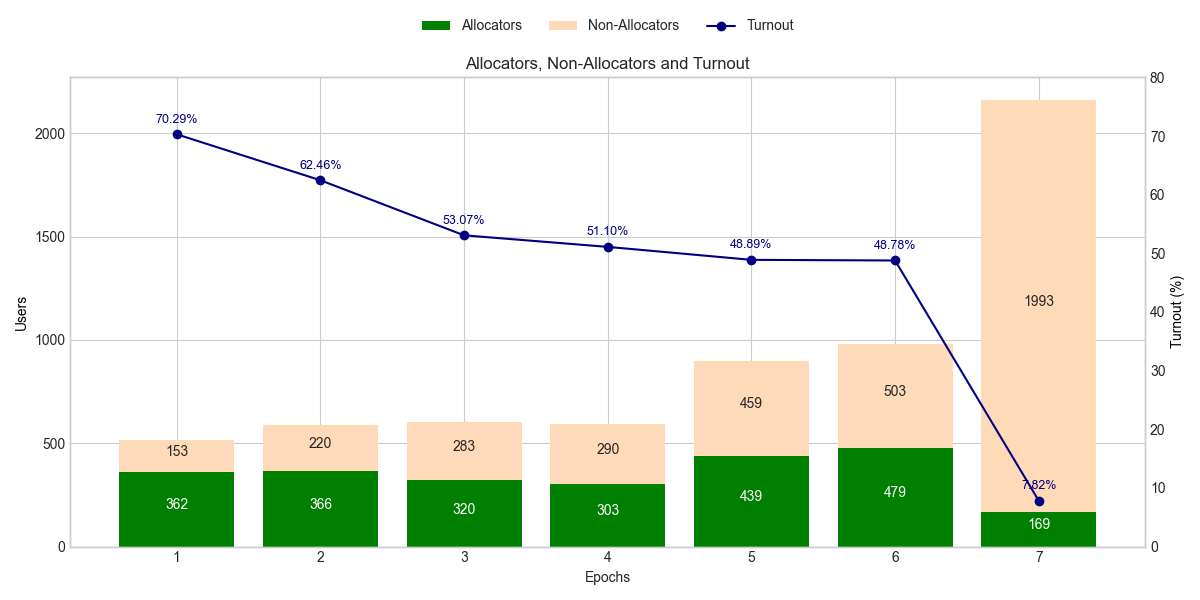
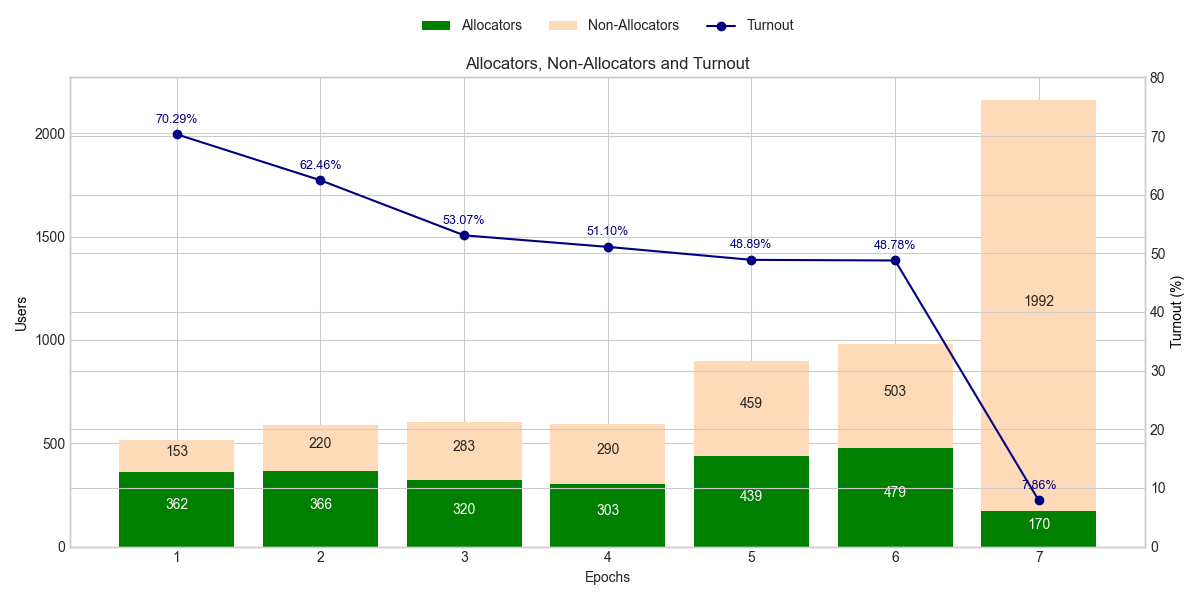
update

Changed region(s): [[0.8633, 0.81, 0.8942, 0.87]]

diff --git a/_site/e7.html b/_site/e7.html
@@ -222,9 +222,9 @@
     <tr>
       <td style="width: 1%; text-align: center; padding: 8px; word-wrap: break-word; white-space: normal;">7</td>
       <td style="width: 1%; text-align: center; padding: 8px; word-wrap: break-word; white-space: normal;">2162</td>
-      <td style="width: 1%; text-align: center; padding: 8px; word-wrap: break-word; white-space: normal;">169</td>
-      <td style="width: 1%; text-align: center; padding: 8px; word-wrap: break-word; white-space: normal;">142</td>
-      <td style="width: 1%; text-align: center; padding: 8px; word-wrap: break-word; white-space: normal;">7.8</td>
+      <td style="width: 1%; text-align: center; padding: 8px; word-wrap: break-word; white-space: normal;">170</td>
+      <td style="width: 1%; text-align: center; padding: 8px; word-wrap: break-word; white-space: normal;">143</td>
+      <td style="width: 1%; text-align: center; padding: 8px; word-wrap: break-word; white-space: normal;">7.9</td>
     </tr>
   </tbody>
 </table>
@@ -293,7 +293,7 @@
       <td style="width: 1%; text-align: center; padding: 8px; word-wrap: break-word; white-space: normal;">34</td>
       <td style="width: 1%; text-align: center; padding: 8px; word-wrap: break-word; white-space: normal;">6</td>
       <td style="width: 1%; text-align: center; padding: 8px; word-wrap: break-word; white-space: normal;">18</td>
-      <td style="width: 1%; text-align: center; padding: 8px; word-wrap: break-word; white-space: normal;">42</td>
+      <td style="width: 1%; text-align: center; padding: 8px; word-wrap: break-word; white-space: normal;">43</td>
     </tr>
   </tbody>
 </table>
@@ -443,7 +443,7 @@
 <footer class="site-footer">
     <div class="container">
         <div class="footer-bottom">
-            <p class="footer-update">Last update: 2025-04-14 16:53:28</p>
+            <p class="footer-update">Last update: 2025-04-14 17:33:10</p>
             <p>&copy; 2025 Octant. All rights reserved.</p>
         </div>
     </div>

diff --git a/_includes/e7/table_users.html b/_includes/e7/table_users.html
@@ -54,9 +54,9 @@
     <tr>
       <td style="width: 1%; text-align: center; padding: 8px; word-wrap: break-word; white-space: normal;">7</td>
       <td style="width: 1%; text-align: center; padding: 8px; word-wrap: break-word; white-space: normal;">2162</td>
-      <td style="width: 1%; text-align: center; padding: 8px; word-wrap: break-word; white-space: normal;">169</td>
-      <td style="width: 1%; text-align: center; padding: 8px; word-wrap: break-word; white-space: normal;">142</td>
-      <td style="width: 1%; text-align: center; padding: 8px; word-wrap: break-word; white-space: normal;">7.8</td>
+      <td style="width: 1%; text-align: center; padding: 8px; word-wrap: break-word; white-space: normal;">170</td>
+      <td style="width: 1%; text-align: center; padding: 8px; word-wrap: break-word; white-space: normal;">143</td>
+      <td style="width: 1%; text-align: center; padding: 8px; word-wrap: break-word; white-space: normal;">7.9</td>
     </tr>
   </tbody>
 </table>

diff --git a/_includes/e7/table_cohorts.html b/_includes/e7/table_cohorts.html
@@ -56,7 +56,7 @@
       <td style="width: 1%; text-align: center; padding: 8px; word-wrap: break-word; white-space: normal;">34</td>
       <td style="width: 1%; text-align: center; padding: 8px; word-wrap: break-word; white-space: normal;">6</td>
       <td style="width: 1%; text-align: center; padding: 8px; word-wrap: break-word; white-space: normal;">18</td>
-      <td style="width: 1%; text-align: center; padding: 8px; word-wrap: break-word; white-space: normal;">42</td>
+      <td style="width: 1%; text-align: center; padding: 8px; word-wrap: break-word; white-space: normal;">43</td>
     </tr>
   </tbody>
 </table>

diff --git a/_site/e5.html b/_site/e5.html
@@ -355,7 +355,7 @@
 <footer class="site-footer">
     <div class="container">
         <div class="footer-bottom">
-            <p class="footer-update">Last update: 2025-04-14 16:53:28</p>
+            <p class="footer-update">Last update: 2025-04-14 17:33:10</p>
             <p>&copy; 2025 Octant. All rights reserved.</p>
         </div>
     </div>

diff --git a/_site/e6.html b/_site/e6.html
@@ -557,7 +557,7 @@
 <footer class="site-footer">
     <div class="container">
         <div class="footer-bottom">
-            <p class="footer-update">Last update: 2025-04-14 16:53:28</p>
+            <p class="footer-update">Last update: 2025-04-14 17:33:10</p>
             <p>&copy; 2025 Octant. All rights reserved.</p>
         </div>
     </div>

diff --git a/_site/index.html b/_site/index.html
@@ -107,7 +107,7 @@
 <footer class="site-footer">
     <div class="container">
         <div class="footer-bottom">
-            <p class="footer-update">Last update: 2025-04-14 16:53:28</p>
+            <p class="footer-update">Last update: 2025-04-14 17:33:10</p>
             <p>&copy; 2025 Octant. All rights reserved.</p>
         </div>
     </div>

diff --git a/_includes/e7/current_datetime.html b/_includes/e7/current_datetime.html
@@ -7,6 +7,6 @@
     <title>Current Date and Time</title>
 </head>
 <body>
-    <p>Last update: 2025-04-14 16:52:44</p>
+    <p>Last update: 2025-04-14 17:32:15</p>
 </body>
 </html>
